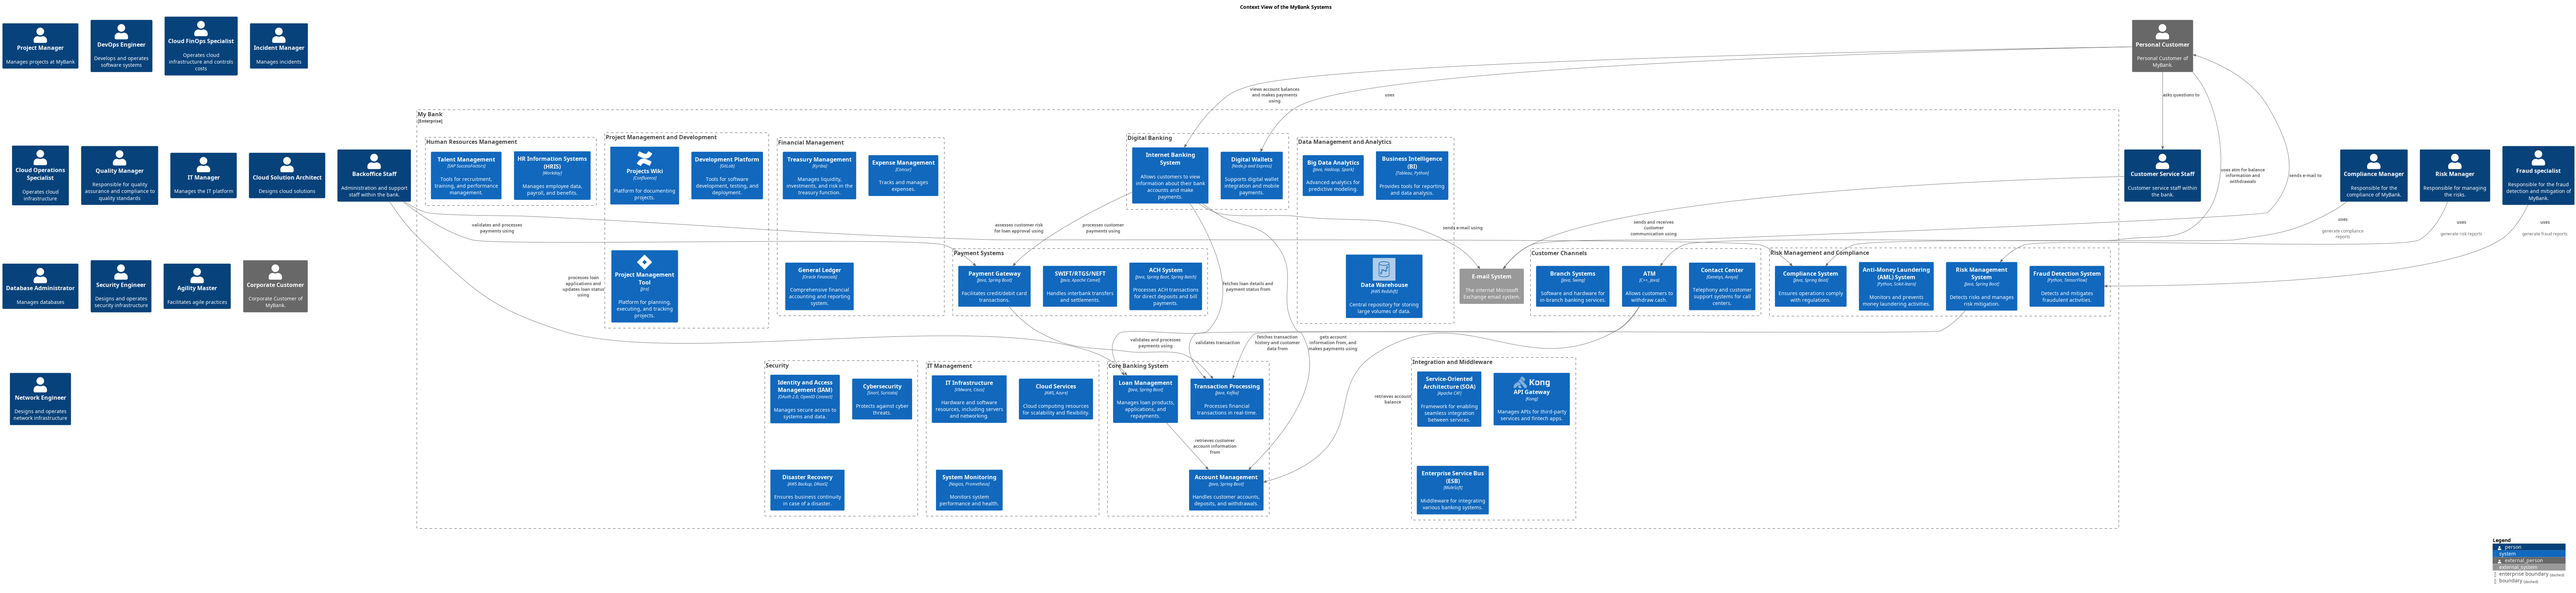
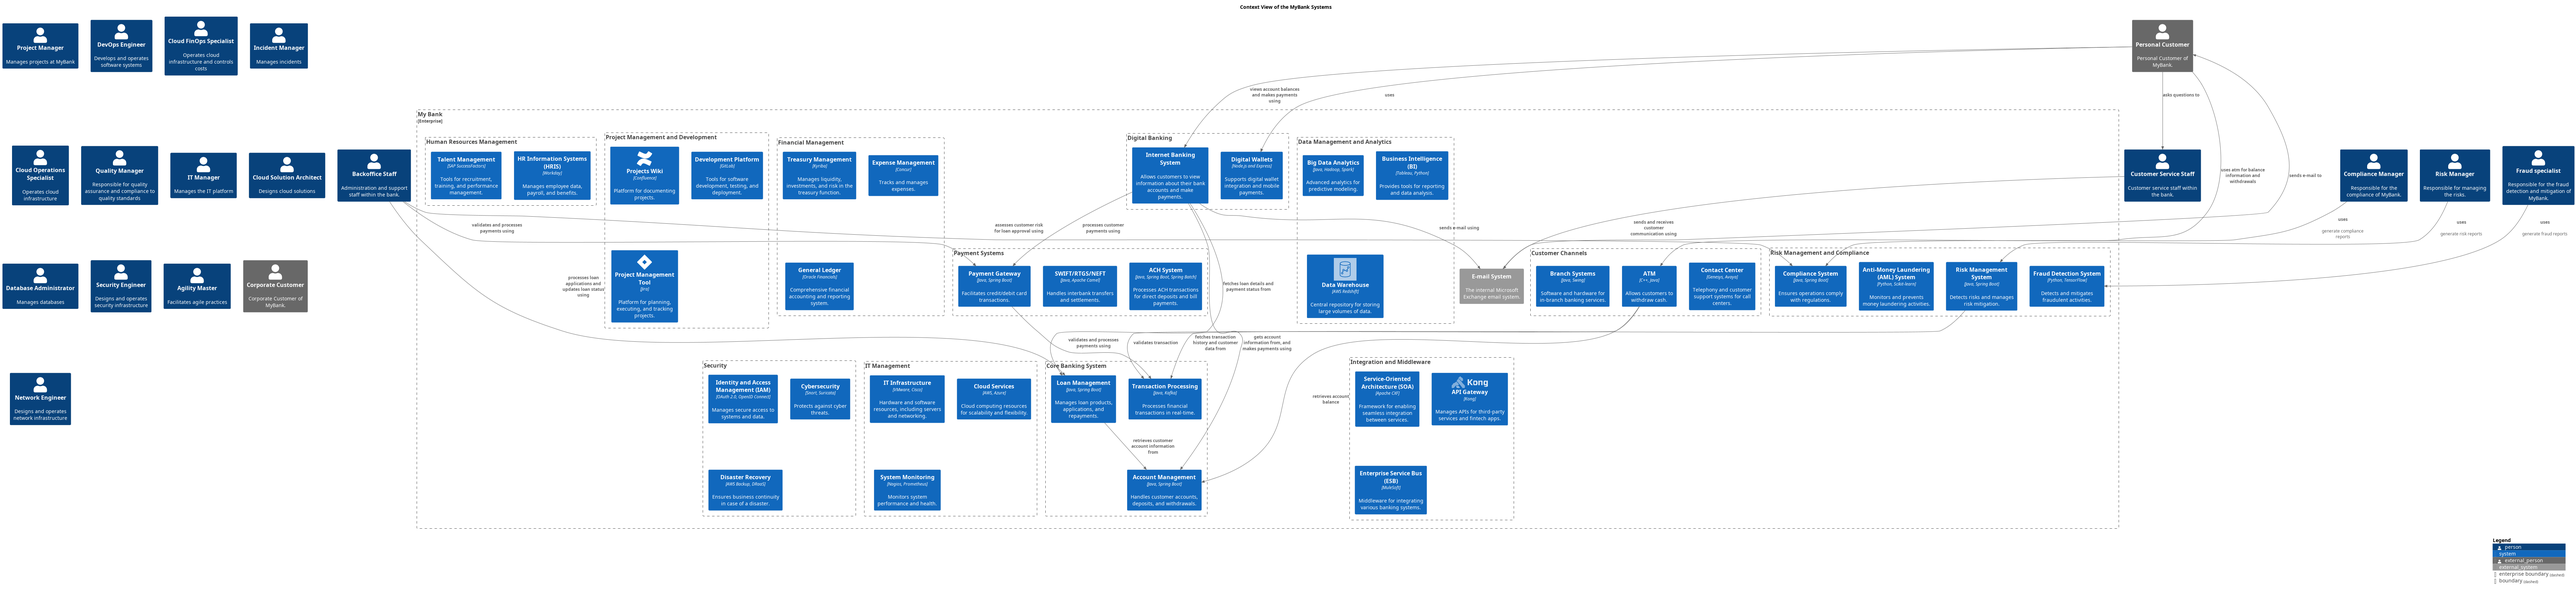
updated compliance model and views

Changed region(s): [[0.2496, 0.4338, 0.6239, 0.7437], [0.4367, 0.7437, 0.5927, 0.8677], [0.2496, 0.7747, 0.4055, 0.8677]]

diff --git a/docs/mybank/model-view.md b/docs/mybank/model-view.md
@@ -67,9 +67,9 @@ Shows the complete model graph
 | [AWS Platform](../mybank/it-management/aws-unit.md)| Responsible for the AWS cloud platform. |
 | [Asset Management](../mybank/investments/asset-management-org.md)|  |
 | [Azure Platform](../mybank/it-management/azure-unit.md)| Responsible for the Azure cloud platform. |
-| [Compliance and Risk Management](../mybank/compliance/compliance-unit.md)| Responsible for the compliance and risk management of MyBank |
+| [Compliance and Risk Management](../mybank/compliance/compliance-unit.md)| Responsible for the compliance and risk management |
 | [Corporate Customers](../mybank/organization/corporate-customers.md)|  |
-| [Fraud](../mybank/compliance/fraud.md)|  |
+| [Fraud](../mybank/compliance/fraud-unit.md)| Responsible for the fraud detection and mitigation |
 | [Human Resources](../mybank/organization/human-resources-unit.md)| Central management of human resources |
 | [IT Management](../mybank/it-management/it-management-unit.md)| Responsible for the IT platform of MyBank |
 | [Internet Banking](../mybank/organization/personal-customers/internet-banking.md)|  |
@@ -82,8 +82,8 @@ Shows the complete model graph
 | [Personal Loans](../mybank/organization/personal-customers/personal-loans-org.md)|  |
 | [Projects](../mybank/project-management/project-management-unit.md)| Responsible for MyBank Projects |
 | [Recruiting](../mybank/organization/hr/recruiting.md)| Responsible for recruiting new employees |
-| [Regulations](../mybank/compliance/regulations.md)|  |
-| [Risk Management](../mybank/compliance/risk-management.md)|  |
+| [Regulations](../mybank/compliance/regulations-unit.md)| Responsible for the compliance and regulations |
+| [Risk Management](../mybank/compliance/risk-management-unit.md)| Responsible for the risk management |
 
 ## Roles
 | Person/Role | Description |

diff --git a/docs/mybank/compliance/compliance-unit.md b/docs/mybank/compliance/compliance-unit.md
@@ -1,7 +1,7 @@
 
 # Compliance and Risk Management (Org-unit)
 ## Description
-Responsible for the compliance and risk management of MyBank
+Responsible for the compliance and risk management
 
 ## Parent
 [My Bank](../../mybank/my-bank-organization.md)
@@ -9,9 +9,14 @@ Responsible for the compliance and risk management of MyBank
 ## Sub Units
 | Org-unit | Description |
 |---|---|
-| [Fraud](../../mybank/compliance/fraud.md)|  |
-| [Regulations](../../mybank/compliance/regulations.md)|  |
-| [Risk Management](../../mybank/compliance/risk-management.md)|  |
+| [Fraud](../../mybank/compliance/fraud-unit.md)| Responsible for the fraud detection and mitigation |
+| [Regulations](../../mybank/compliance/regulations-unit.md)| Responsible for the compliance and regulations |
+| [Risk Management](../../mybank/compliance/risk-management-unit.md)| Responsible for the risk management |
+
+
+## Organization Structure
+![Org Chart of the Compliance and Risk Management unit](../../mybank/compliance/organization-structure-view.png)
+[Org Chart of the Compliance and Risk Management unit](../../mybank/compliance/organization-structure-view.md)
 
 
 ## Navigation

diff --git a/docs/mybank/compliance/organization-structure-view.md b/docs/mybank/compliance/organization-structure-view.md
@@ -1,0 +1,21 @@
+# Org Chart of the Compliance and Risk Management unit
+
+## Diagram
+![Org Chart of the Compliance and Risk Management unit](../../mybank/compliance/organization-structure-view.png)
+
+## Description
+Shows the organization structure of the Compliance and Risk Management unit.
+
+## Organization Units
+| Org-unit | Description |
+|---|---|
+| [Compliance and Risk Management](../../mybank/compliance/compliance-unit.md)| Responsible for the compliance and risk management |
+
+## Navigation
+[List of views in namespace](./views-in-namespace.md)
+
+[List of all Views](../../views.md)
+
+
+(generated by [Overarch](https://github.com/soulspace-org/overarch) with template docs/views/view.md.cmb)
+

diff --git a/docs/mybank/compliance/fraud-unit.md b/docs/mybank/compliance/fraud-unit.md
@@ -1,7 +1,7 @@
 
 # Fraud (Org-unit)
 ## Description
-
+Responsible for the fraud detection and mitigation
 
 ## Parent
 [Compliance and Risk Management](../../mybank/compliance/compliance-unit.md)
@@ -10,6 +10,11 @@
 | Person/Role | Description |
 |---|---|
 | [Fraud specialist](../../mybank/compliance/fraud-specialist.md)| Responsible for the fraud detection and mitigation of MyBank. |
+
+
+## Organization Structure
+![Org Chart of the Compliance and Risk Management unit](../../mybank/compliance/organization-structure-view.png)
+[Org Chart of the Compliance and Risk Management unit](../../mybank/compliance/organization-structure-view.md)
 
 
 ## Navigation

diff --git a/docs/mybank/compliance/regulations-unit.md b/docs/mybank/compliance/regulations-unit.md
@@ -1,7 +1,7 @@
 
 # Regulations (Org-unit)
 ## Description
-
+Responsible for the compliance and regulations
 
 ## Parent
 [Compliance and Risk Management](../../mybank/compliance/compliance-unit.md)
@@ -10,6 +10,11 @@
 | Person/Role | Description |
 |---|---|
 | [Compliance Manager](../../mybank/compliance/compliance-manager.md)| Responsible for the compliance of MyBank. |
+
+
+## Organization Structure
+![Org Chart of the Compliance and Risk Management unit](../../mybank/compliance/organization-structure-view.png)
+[Org Chart of the Compliance and Risk Management unit](../../mybank/compliance/organization-structure-view.md)
 
 
 ## Navigation

diff --git a/docs/mybank/my-bank-organization.md b/docs/mybank/my-bank-organization.md
@@ -7,7 +7,7 @@ My Bank Company
 ## Sub Units
 | Org-unit | Description |
 |---|---|
-| [Compliance and Risk Management](../mybank/compliance/compliance-unit.md)| Responsible for the compliance and risk management of MyBank |
+| [Compliance and Risk Management](../mybank/compliance/compliance-unit.md)| Responsible for the compliance and risk management |
 | [Corporate Customers](../mybank/organization/corporate-customers.md)|  |
 | [Human Resources](../mybank/organization/human-resources-unit.md)| Central management of human resources |
 | [IT Management](../mybank/it-management/it-management-unit.md)| Responsible for the IT platform of MyBank |

diff --git a/docs/mybank/compliance/risk-management-unit.md b/docs/mybank/compliance/risk-management-unit.md
@@ -1,7 +1,7 @@
 
 # Risk Management (Org-unit)
 ## Description
-
+Responsible for the risk management
 
 ## Parent
 [Compliance and Risk Management](../../mybank/compliance/compliance-unit.md)
@@ -10,6 +10,11 @@
 | Person/Role | Description |
 |---|---|
 | [Risk Manager](../../mybank/compliance/risk-manager.md)| Responsible for managing the risks. |
+
+
+## Organization Structure
+![Org Chart of the Compliance and Risk Management unit](../../mybank/compliance/organization-structure-view.png)
+[Org Chart of the Compliance and Risk Management unit](../../mybank/compliance/organization-structure-view.md)
 
 
 ## Navigation

diff --git a/docs/mybank/compliance/views-in-namespace.md b/docs/mybank/compliance/views-in-namespace.md
@@ -8,6 +8,10 @@
 | Title | Description |
 |---|---|
 | [Container View of the Compliance and Risk Management Systems](container-view.md) | Shows the systems and containers of the domain Compliance and Risk Management and their relations. |
+## Organization Structure Views
+| Title | Description |
+|---|---|
+| [Org Chart of the Compliance and Risk Management unit](organization-structure-view.md) | Shows the organization structure of the Compliance and Risk Management unit. |
 
 
 (generated by [Overarch](https://github.com/soulspace-org/overarch) with docs/views/views.md.cmb)

diff --git a/docs/views.md b/docs/views.md
@@ -60,6 +60,7 @@
 | Title | Description |
 |---|---|
 | [MyBank Organization Chart](./mybank/organization/organization-structure-view.md) | Shows the hierarchical structure of the MyBank organization |
+| [Compliance and Risk Management Org Chart](./mybank/compliance/organization-structure-view.md) | Shows the organization structure of the Compliance and Risk Management unit. |
 ## Glossary Views
 | Title | Description |
 |---|---|

diff --git a/docs/mybank/compliance/compliance-manager.md b/docs/mybank/compliance/compliance-manager.md
@@ -7,7 +7,7 @@ Responsible for the compliance of MyBank.
 ## Role in Organization Units
 | Org-unit | Description |
 |---|---|
-| [Regulations](../../mybank/compliance/regulations.md)|  |
+| [Regulations](../../mybank/compliance/regulations-unit.md)| Responsible for the compliance and regulations |
 ## Outgoing Synchronous Requests 
 | From | Name | To | Technology | Description |
 |---|---|---|---|---|

diff --git a/docs/mybank/compliance/fraud-specialist.md b/docs/mybank/compliance/fraud-specialist.md
@@ -7,7 +7,7 @@ Responsible for the fraud detection and mitigation of MyBank.
 ## Role in Organization Units
 | Org-unit | Description |
 |---|---|
-| [Fraud](../../mybank/compliance/fraud.md)|  |
+| [Fraud](../../mybank/compliance/fraud-unit.md)| Responsible for the fraud detection and mitigation |
 ## Outgoing Synchronous Requests 
 | From | Name | To | Technology | Description |
 |---|---|---|---|---|

diff --git a/docs/mybank/compliance/risk-manager.md b/docs/mybank/compliance/risk-manager.md
@@ -7,7 +7,7 @@ Responsible for managing the risks.
 ## Role in Organization Units
 | Org-unit | Description |
 |---|---|
-| [Risk Management](../../mybank/compliance/risk-management.md)|  |
+| [Risk Management](../../mybank/compliance/risk-management-unit.md)| Responsible for the risk management |
 ## Outgoing Synchronous Requests 
 | From | Name | To | Technology | Description |
 |---|---|---|---|---|
